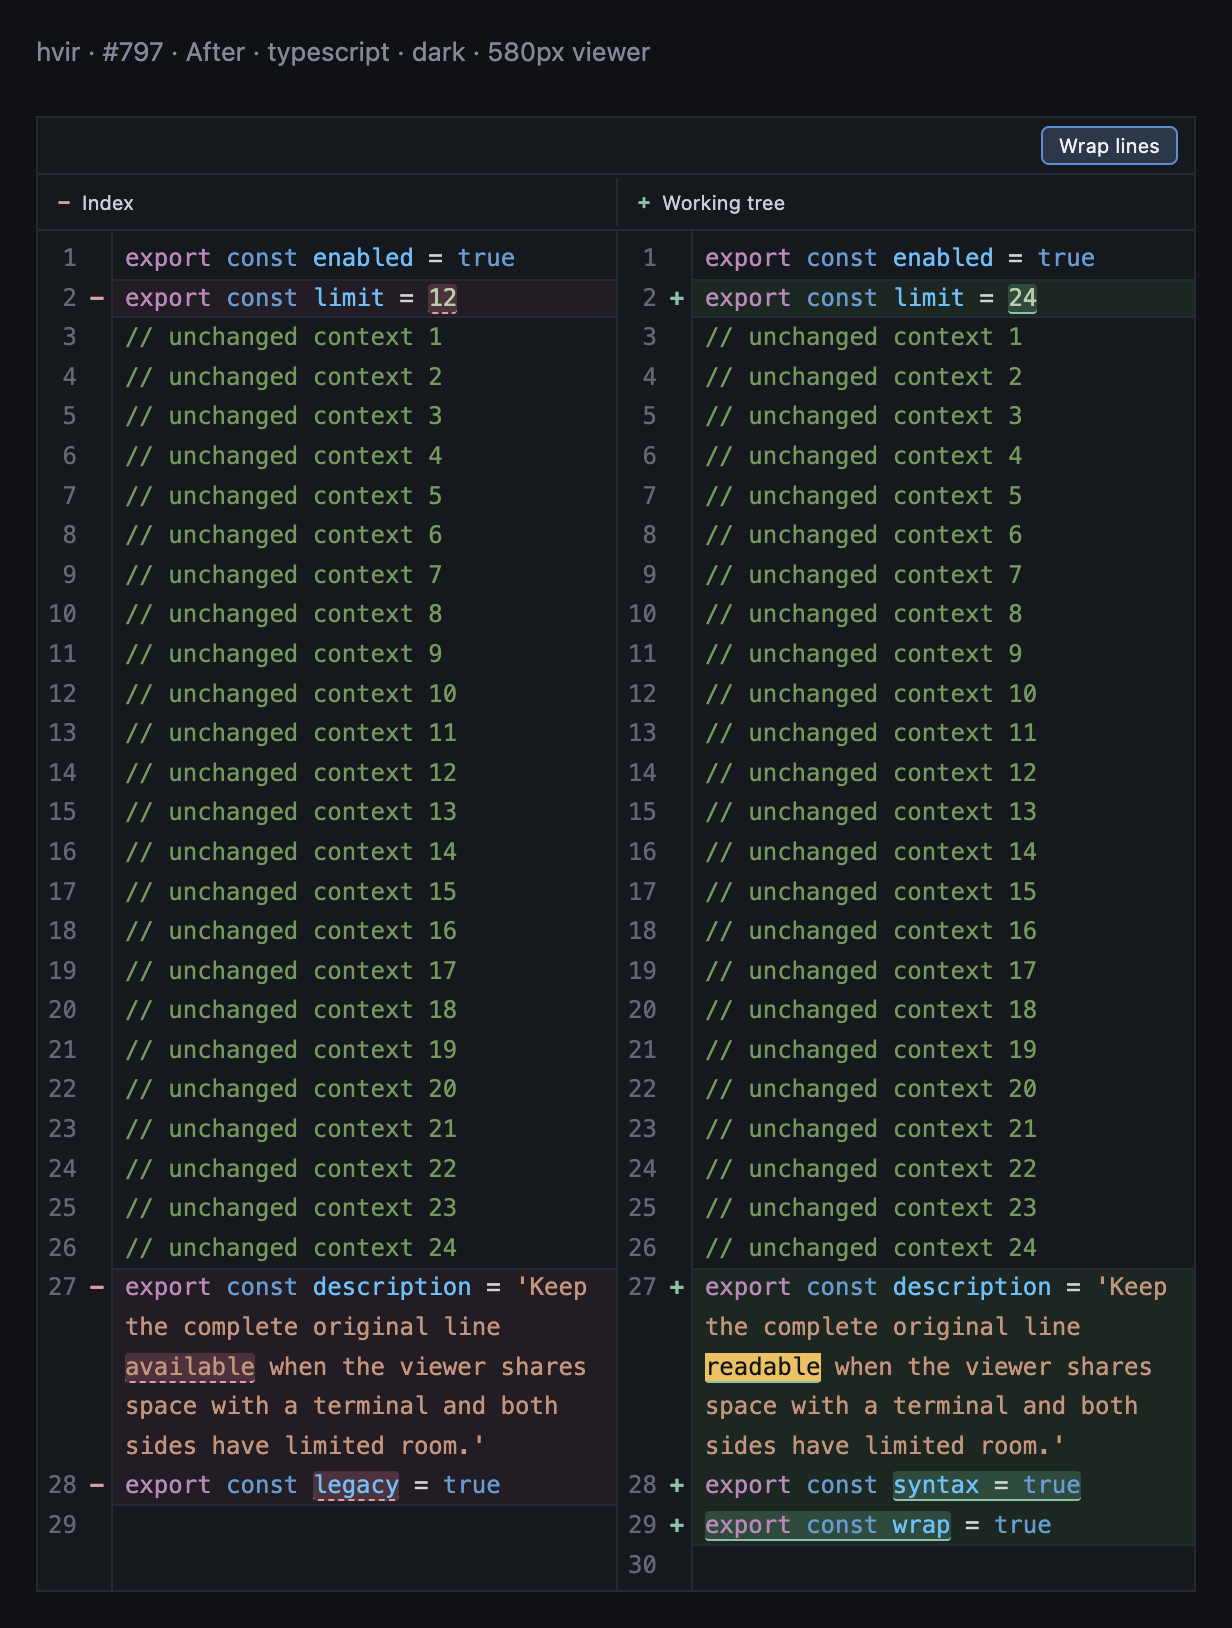
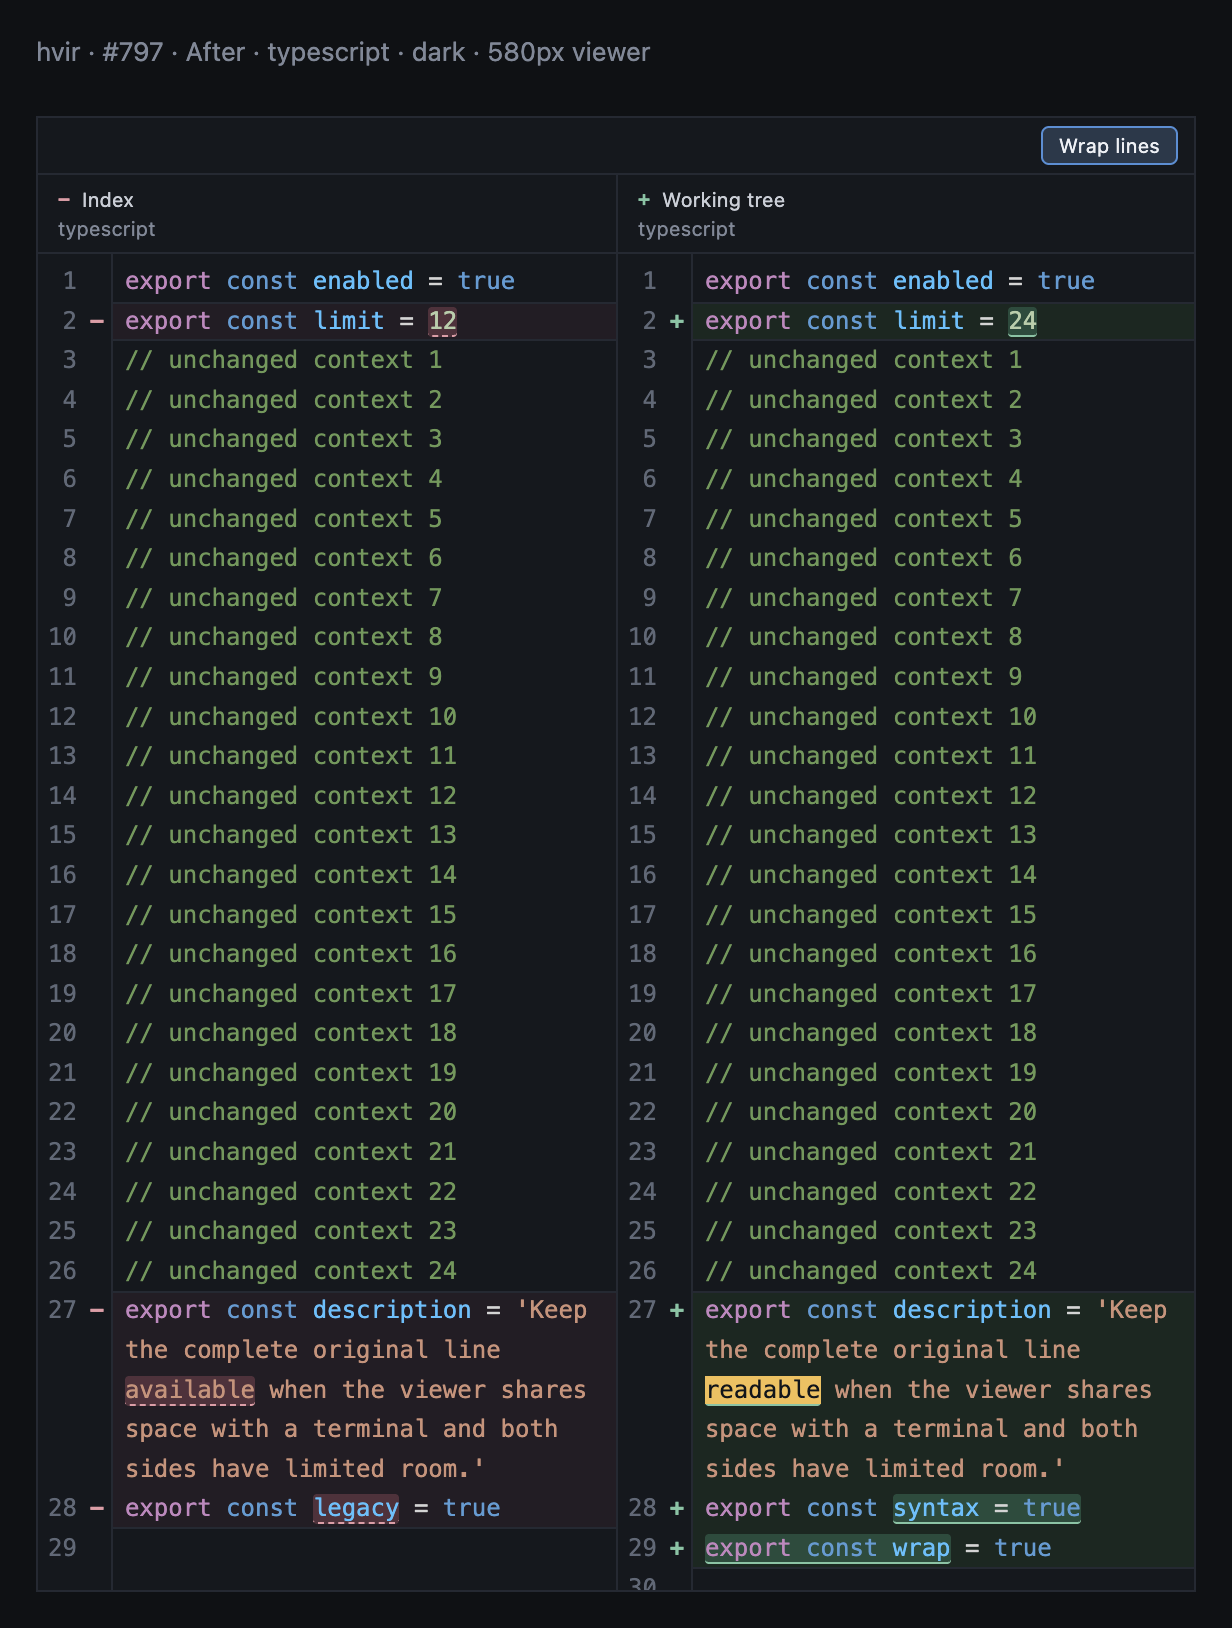
Address diff review feedback on fallback, status, and context observation

diff --git a/test/highlight-request.test.ts b/test/highlight-request.test.ts
@@ -10,7 +10,7 @@ const input = {
   size: 15,
   theme: 'dark' as const,
 }
-const sink = () => ({ status: vi.fn(), tokens: vi.fn() })
+const sink = () => ({ reset: vi.fn(), status: vi.fn(), tokens: vi.fn() })
 
 describe('source highlight request lifetime', () => {
   it('reuses the workload and language policy before acquiring a worker', () => {
@@ -76,28 +76,40 @@ describe('source highlight request lifetime', () => {
     expect(worker.errors.size).toBe(0)
   })
 
-  it('retains plain-text and request/worker failure presentation', () => {
-    const worker = new ViewerHighlightWorker()
-    const output = sink()
-    const release = requestSourceHighlight(() => worker, input, output)
-    const id = worker.requests[0]!.id
-    worker.respond({ type: 'plain', id })
-    expect(output.status).toHaveBeenLastCalledWith('plain text')
-    worker.respond({ type: 'error', id, message: 'grammar unavailable' })
-    expect(output.status).toHaveBeenLastCalledWith(
-      'highlight failed: grammar unavailable',
-    )
-    const event = Object.assign(new Event('error'), { message: 'worker unavailable' })
-    worker.dispatchEvent(event)
-    expect(output.status).toHaveBeenLastCalledWith(
-      'highlight worker failed: worker unavailable',
-    )
-    release()
-    output.status.mockClear()
-    worker.respond({ type: 'done', id, language: 'ts' })
-    worker.dispatchEvent(event)
-    expect(output.status).not.toHaveBeenCalled()
-  })
+  it.each(['plain', 'error', 'worker-error'] as const)(
+    'clears partial output on %s and rejects late queued tokens',
+    (failure) => {
+      const worker = new ViewerHighlightWorker()
+      const output = sink()
+      const release = requestSourceHighlight(() => worker, input, output)
+      const queued = [...worker.messages][0] as EventListener
+      const id = worker.requests[0]!.id
+      const tokens = [{ from: 0, to: 5, color: '#abcdef' }]
+      worker.respond({ type: 'batch', id, tokens })
+      if (failure === 'plain') {
+        worker.respond({ type: 'plain', id })
+        expect(output.status).toHaveBeenLastCalledWith('plain text')
+      } else if (failure === 'error') {
+        worker.respond({ type: 'error', id, message: 'grammar unavailable' })
+        expect(output.status).toHaveBeenLastCalledWith(
+          'highlight failed: grammar unavailable',
+        )
+      } else {
+        worker.dispatchEvent(
+          Object.assign(new Event('error'), { message: 'worker unavailable' }),
+        )
+        expect(output.status).toHaveBeenLastCalledWith(
+          'highlight worker failed: worker unavailable',
+        )
+      }
+      expect(output.reset).toHaveBeenCalledOnce()
+      expect(worker.messages.size).toBe(0)
+      expect(worker.errors.size).toBe(0)
+      queued(new MessageEvent('message', { data: { type: 'batch', id, tokens } }))
+      expect(output.tokens).toHaveBeenCalledOnce()
+      release()
+    },
+  )
 
   it('releases partial startup listeners when postMessage throws while a sibling remains active', () => {
     const worker = new ViewerHighlightWorker()

diff --git a/src/renderer/src/viewer/diff-presentation.ts b/src/renderer/src/viewer/diff-presentation.ts
@@ -51,15 +51,14 @@ function groupBoundaries(view: EditorView): DecorationSet {
 
 /** Preserve MergeView's expansion behavior while making its widgets keyboard reachable. */
 export function registerDiffContextControls(root: HTMLElement): () => void {
-  const exposeControls = (): void => {
-    for (const control of root.querySelectorAll<HTMLElement>('.cm-collapsedLines')) {
-      control.setAttribute('role', 'button')
-      control.tabIndex = 0
-      control.setAttribute(
-        'aria-label',
-        `Expand ${control.textContent ?? 'unchanged lines'}`,
-      )
-    }
+  const exposeControl = (control: HTMLElement): void => {
+    if (control.getAttribute('role') === 'button') return
+    control.setAttribute('role', 'button')
+    control.tabIndex = 0
+    control.setAttribute(
+      'aria-label',
+      `Expand ${control.textContent ?? 'unchanged lines'}`,
+    )
   }
   const onKeyDown = (event: KeyboardEvent): void => {
     if (
@@ -71,10 +70,23 @@ export function registerDiffContextControls(root: HTMLElement): () => void {
       event.target.click()
     }
   }
-  const observer = new MutationObserver(exposeControls)
-  observer.observe(root, { childList: true, subtree: true })
+  // Block widgets are direct content children. Token/find redraws inside lines need no observation.
+  const observer = new MutationObserver((records) => {
+    for (const record of records) {
+      for (const node of record.addedNodes) {
+        if (node instanceof HTMLElement && node.classList.contains('cm-collapsedLines')) {
+          exposeControl(node)
+        }
+      }
+    }
+  })
+  for (const content of root.querySelectorAll('.cm-content')) {
+    observer.observe(content, { childList: true })
+  }
   root.addEventListener('keydown', onKeyDown)
-  exposeControls()
+  for (const control of root.querySelectorAll<HTMLElement>('.cm-collapsedLines')) {
+    exposeControl(control)
+  }
   return () => {
     observer.disconnect()
     root.removeEventListener('keydown', onKeyDown)

diff --git a/test/source-view.test.tsx b/test/source-view.test.tsx
@@ -5,6 +5,7 @@ import { act } from 'react'
 import { createRoot, type Root } from 'react-dom/client'
 import { afterEach, beforeEach, describe, expect, it, vi } from 'vitest'
 import { SourceView } from '../src/renderer/src/viewer/SourceView'
+import { tokenDecorations } from '../src/renderer/src/viewer/source-highlighting'
 import { setAppTheme } from '../src/renderer/src/theme'
 import { asHostId, hostPath, localPath } from '../src/shared'
 import { ViewerHighlightWorker } from './fixtures/viewer-highlight-worker'
@@ -120,6 +121,25 @@ describe('source presentation content and resource lifetime', () => {
     render(edited)
     expect(worker.requests).toHaveLength(3)
     expect(onContent).toHaveBeenCalledTimes(1)
+  })
+
+  it('clears streamed syntax tokens after a worker failure without changing source text', () => {
+    const editor = render('const value = 1')
+    const id = worker.requests[0]!.id
+    act(() =>
+      worker.respond({
+        type: 'batch',
+        id,
+        tokens: [{ from: 0, to: 5, color: '#abcdef' }],
+      }),
+    )
+    expect(editor.state.field(tokenDecorations).size).toBe(1)
+    act(() => worker.respond({ type: 'error', id, message: 'unavailable' }))
+    expect(editor.state.field(tokenDecorations).size).toBe(0)
+    expect(editor.state.doc.toString()).toBe('const value = 1')
+    expect(host.querySelector('.source-meta')?.textContent).toContain(
+      'highlight failed: unavailable',
+    )
   })
 
   it('highlights the current edited document for a new theme and rejects an obsolete theme response', () => {

diff --git a/src/renderer/src/viewer/highlight-request.ts b/src/renderer/src/viewer/highlight-request.ts
@@ -33,6 +33,7 @@ export function requestSourceHighlight(
     readonly theme: 'dark' | 'light'
   },
   output: {
+    readonly reset: () => void
     readonly status: (status: string) => void
     readonly tokens: (tokens: readonly HighlightToken[]) => void
   },
@@ -64,13 +65,20 @@ export function requestSourceHighlight(
     } else if (message.type === 'done') {
       output.status(message.language)
     } else if (message.type === 'plain') {
+      dispose()
+      output.reset()
       output.status('plain text')
     } else {
+      dispose()
+      output.reset()
       output.status(`highlight failed: ${message.message}`)
     }
   }
   const onError = (event: ErrorEvent): void => {
-    if (active) output.status(`highlight worker failed: ${event.message}`)
+    if (!active) return
+    dispose()
+    output.reset()
+    output.status(`highlight worker failed: ${event.message}`)
   }
   try {
     worker = getWorker()
@@ -79,6 +87,7 @@ export function requestSourceHighlight(
     worker.postMessage({ id, code: input.content, language, theme: input.theme })
   } catch (reason) {
     dispose()
+    output.reset()
     output.status(
       `highlight worker failed: ${reason instanceof Error ? reason.message : String(reason)}`,
     )

diff --git a/src/renderer/src/styles/viewer-find.css b/src/renderer/src/styles/viewer-find.css
@@ -1,24 +1,30 @@
+:root {
+  --viewer-find-match-bg: rgb(169 125 33 / 55%);
+  --viewer-find-active-bg: #f4bf4f;
+  --viewer-find-active-text: #11151b;
+}
+
 .find-control {
   position: relative;
 }
 
 ::highlight(hvir-find-match) {
-  background: rgb(169 125 33 / 55%);
+  background: var(--viewer-find-match-bg);
   color: inherit;
 }
 
 ::highlight(hvir-find-active) {
-  background: #f4bf4f;
-  color: #11151b;
+  background: var(--viewer-find-active-bg);
+  color: var(--viewer-find-active-text);
 }
 
 .cm-hvir-find-match {
-  background: rgb(169 125 33 / 55%);
+  background: var(--viewer-find-match-bg);
 }
 
 .cm-hvir-find-match-active {
-  background: #f4bf4f;
-  color: #11151b;
+  background: var(--viewer-find-active-bg);
+  color: var(--viewer-find-active-text);
 }
 
 .find-toggle {

diff --git a/src/main/smoke/diff-readability.ts b/src/main/smoke/diff-readability.ts
@@ -55,6 +55,9 @@ export async function verifyDiffReadability(
               const body = document.querySelector('.viewer-body');
               body.style.width = '580px';
               await waitFor(() => shell.getBoundingClientRect().width <= 580, 'Narrow diff did not resize');
+              for (const status of shell.querySelectorAll('.diff-labels small')) {
+                if (getComputedStyle(status).display === 'none') throw new Error('Narrow diff hides highlight status');
+              }
               for (const side of ['a', 'b']) {
                 const editor = shell.querySelector('.cm-merge-' + side);
                 if (!editor.querySelector('.cm-content [style*="color"]')) throw new Error('Diff syntax colors missing');

diff --git a/src/renderer/src/styles/viewer-content.css b/src/renderer/src/styles/viewer-content.css
@@ -182,8 +182,14 @@
 }
 
 @container (max-width: 640px) {
+  .diff-labels > span {
+    flex-wrap: wrap;
+    row-gap: 3px;
+  }
+
   .diff-labels small {
-    display: none;
+    flex-basis: 100%;
+    margin-left: 0;
   }
 }
 
@@ -280,13 +286,13 @@
 
 .diff-host .cm-hvir-find-match,
 .diff-host .cm-hvir-find-match * {
-  background: rgb(169 125 33 / 55%) !important;
+  background: var(--viewer-find-match-bg) !important;
 }
 
 .diff-host .cm-hvir-find-match-active,
 .diff-host .cm-hvir-find-match-active * {
-  background: #f4bf4f !important;
-  color: #11151b !important;
+  background: var(--viewer-find-active-bg) !important;
+  color: var(--viewer-find-active-text) !important;
 }
 
 .rendered-scroll {

diff --git a/src/renderer/src/viewer/source-highlighting.ts b/src/renderer/src/viewer/source-highlighting.ts
@@ -47,12 +47,8 @@ export function highlightSource(
     getHighlightWorker,
     { path, content, size, theme },
     {
-      status: (status) => {
-        if (status === 'plain text' || status.includes('failed:')) {
-          view.dispatch({ effects: resetTokens.of(null) })
-        }
-        setStatus(status)
-      },
+      reset: () => view.dispatch({ effects: resetTokens.of(null) }),
+      status: setStatus,
       tokens: (tokens) => view.dispatch({ effects: addTokens.of(tokens) }),
     },
   )

diff --git a/src/renderer/src/viewer/DiffView.tsx b/src/renderer/src/viewer/DiffView.tsx
@@ -246,6 +246,7 @@ function InteractiveDiff({
       if (positionCapture.current === capturePosition) {
         positionCapture.current = undefined
       }
+      // Revoke child subscriptions before destroying editors; generation cleanup is idempotent.
       highlightDisposers.base?.()
       highlightDisposers.current?.()
       unregisterContextControls()
